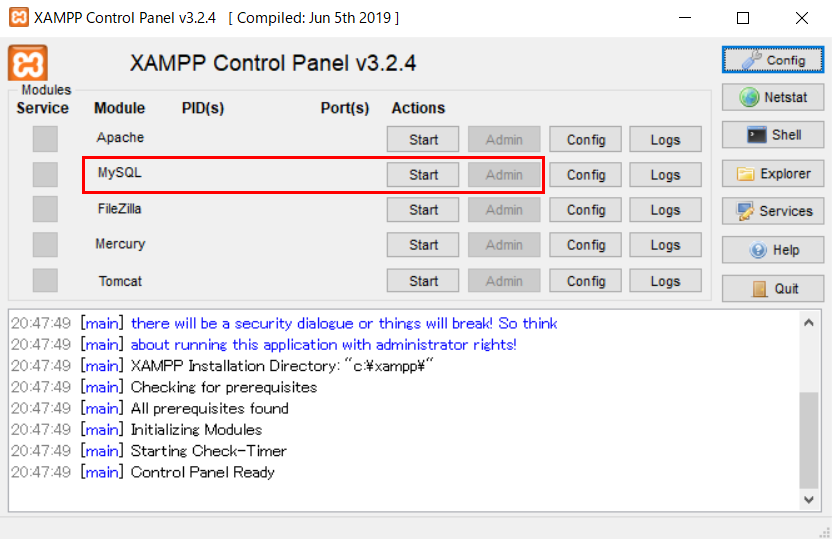
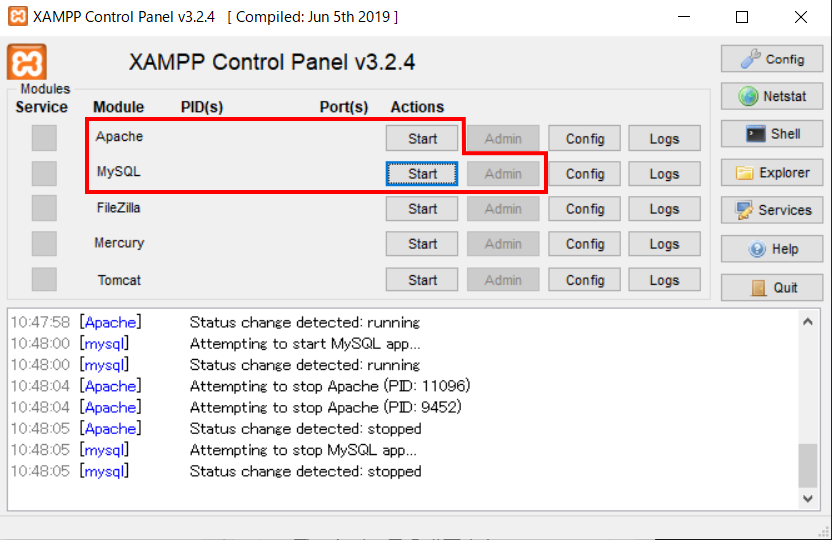
XAMPPを使ったインストール記事をec-cube4.0.4に対応

diff --git a/_pages/quickstart/gui_win_install_403.md b/_pages/quickstart/gui_win_install_403.md
@@ -1,28 +1,27 @@
 ---
-title: Windows環境でXAMPPを使用したインストール方法
+title: EC-CUBE4.0.3 - Windows環境でXAMPPを使用したインストール方法
 keywords: install XAMPP
 tags: [quickstart, install, gui]
-permalink: quickstart_install/gui_win_install
+permalink: quickstart_install/gui_win_install_403
 forder: quickstart
-description: EC-CUBE4系をXAMPPを使用してWindowsのローカル環境へインストールする方法を解説します。
+description: EC-CUBE4.0.3をXAMPPを使用してWindowsのローカル環境へインストールする方法を解説します。
 ---
 
 ## インストールの前に
 XAMPPを使用してWindowsのローカル環境へインストールする方法を解説します。  
-[システム要件](/quickstart_requirement)からご使用されるEC-CUBEに対応しているphpバージョン等をご確認ください。  
 この記事の構築環境は以下の通りです。  
 ```
 // サンプルの構築環境
 Windows 10
-EC-CUBE 4.0.4
-XAMPP 7.4.7
+EC-CUBE 4.0.3
+XAMPP 7.2.29
 ```
-EC-CUBE4.0.3のインストール手順は[こちら](/quickstart_install/gui_win_install_403)をご覧ください。  
+
 
 ## XAMPPをダウンロード、インストール
 まずはXAMPPを準備します。  
-EC-CUBE4.0.4は、php7.4に対応しています。  
-ご使用されるEC-CUBEに対応したphpバージョンのXAMPPをダウンロードする必要があります。  
+EC-CUBE4.0.3は、**php7.1 〜7.3**で動作確認しています。  
+そのphpバージョンに該当するXAMPPをダウンロードする必要があります。  
 
 [XAMPP公式サイト](https://www.apachefriends.org/jp/index.html){:target='_blank'}へアクセスし、
 メニューからダウンロードページへ移動します。  
@@ -35,7 +34,7 @@ EC-CUBE4.0.4は、php7.4に対応しています。
 
 ## EC-CUBEをダウンロード
 続いて、EC-CUBEをダウンロードします。  
-[EC-CUBE公式サイトのダウンロードページ](https://www.ec-cube.net/download/){:target='_blank'}から最新版のEC-CUBEをダウンロードします。  
+[EC-CUBE公式サイトのダウンロードページ](https://www.ec-cube.net/download/){:target='_blank'}から最新版のEC-CUBEをダウンロードします。(この記事では4.0.3)  
 ※ ダウンロードには会員登録が必要です。  
 
 ダウンロードしたら解凍します。  
@@ -50,23 +49,23 @@ EC-CUBE4.0.4は、php7.4に対応しています。
 
 
 ```
-例:htdocsの中にtest-shopというディレクトリを作成し、そこにeccube-4.0.4を配置した場合
+例:htdocsの中にtest-shopというディレクトリを作成し、そこにeccube-4.0.3を配置した場合
 ■ ディレクトリ構造
-Windows(C:)\xampp\htdocs\test-shop\eccube-4.0.4\
+Windows(C:)\xampp\htdocs\test-shop\eccube-4.0.3\
 
 ■ ショップのトップページURL
-http://127.0.0.1/test-shop/eccube-4.0.4/
+http://127.0.0.1/test-shop/eccube-4.0.3/
 ```
 ※ まだEC-CUBEをインストールしていないので、ショップURLにアクセスしてもサイトは表示されません。  
-※ eccube-4.0.4の名前は自由に変えられます。 
+※ eccube-4.0.3の名前は自由に変えられます。 
 
-test-shopを作成せずにeccube-4.0.4のみhtdocsに配置するとショップURLは以下のようになります。  
-`http://127.0.0.1/eccube-4.0.4/`  
+test-shopを作成せずにeccube-4.0.3のみhtdocsに配置するとショップURLは以下のようになります。  
+`http://127.0.0.1/eccube-4.0.3/`  
 
 
 ## データベース作成
 XAMPPを起動します。  
-Acacheの「Start」とMySQLの「Start」と「Admin」をクリックしてphpMyAdminを立ち上げます。  
+MySQLの項目の「Start」と「Admin」をクリックしてphpMyAdminを立ち上げます。  
 ![XAMPP](/images/install/gui-win/xampp1.png)
 
 phpMyAdminが開きます。
@@ -97,8 +96,6 @@ ApacheとMySQLのActions項目の「Start」をクリックします。
 `http://127.0.0.1/{EC-CUBEをアップロードしたディレクトリ名}/`  
 
 インストール画面が表示されます。  
-
-![install step0](/images/install/gui-win/step0.png)
 
 「intl拡張モジュールが有効になっていません」というエラーが表示されます。  
 
